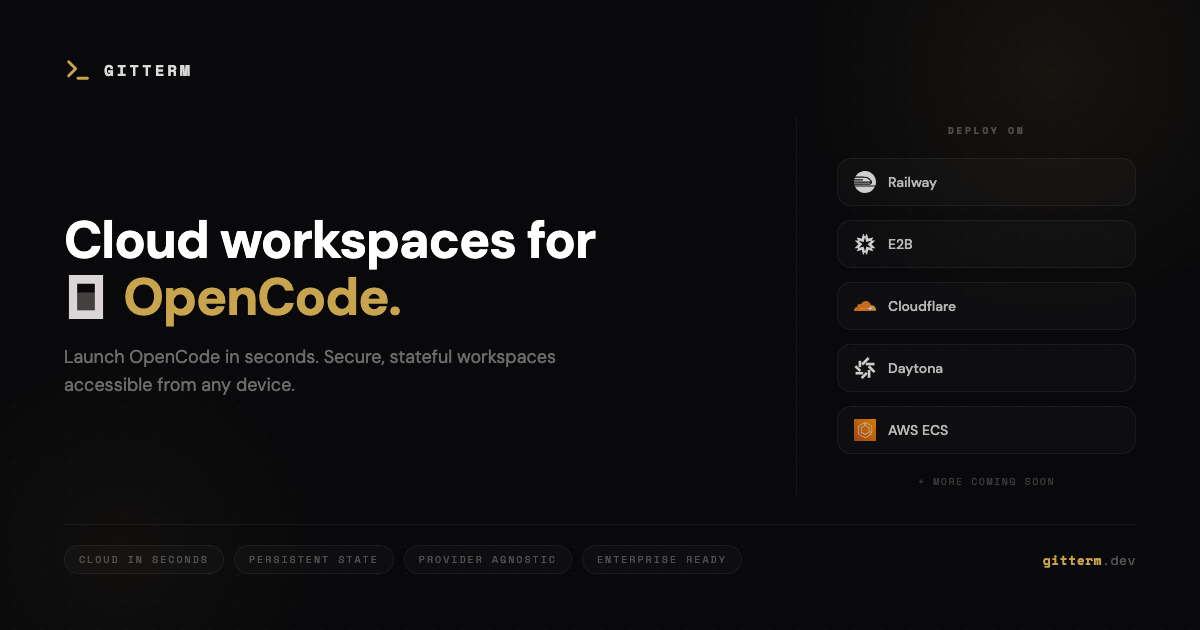
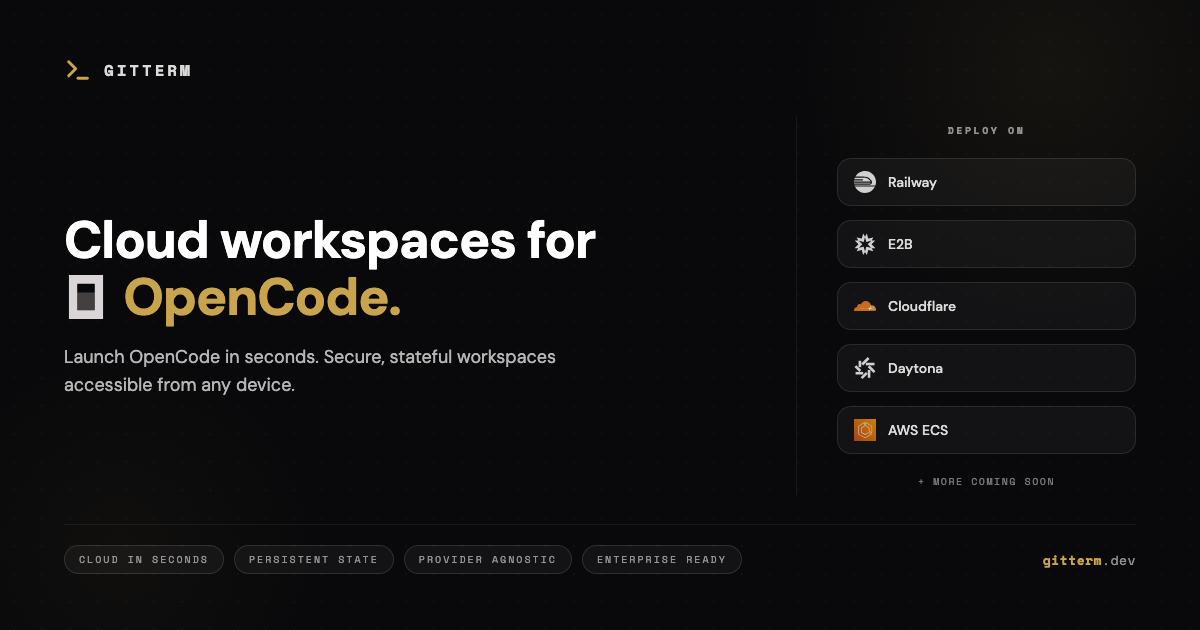
chore: Update og-card

diff --git a/apps/web/public/og-card.html b/apps/web/public/og-card.html
@@ -137,7 +137,7 @@
       .sub {
         font-size: 18px;
         line-height: 1.55;
-        color: rgba(255, 255, 255, 0.4);
+        color: rgba(255, 255, 255, 0.7);
         max-width: 520px;
       }
 
@@ -159,7 +159,7 @@
         font-weight: 700;
         letter-spacing: 0.25em;
         text-transform: uppercase;
-        color: rgba(255, 255, 255, 0.25);
+        color: rgba(255, 255, 255, 0.55);
       }
 
       .providers-list {
@@ -174,9 +174,9 @@
         align-items: center;
         gap: 12px;
         padding: 12px 16px;
-        border: 1px solid rgba(255, 255, 255, 0.06);
+        border: 1px solid rgba(255, 255, 255, 0.1);
         border-radius: 14px;
-        background: rgba(255, 255, 255, 0.02);
+        background: rgba(255, 255, 255, 0.04);
       }
 
       .provider-row img {
@@ -188,7 +188,7 @@
       .provider-row span {
         font-size: 14px;
         font-weight: 500;
-        color: rgba(255, 255, 255, 0.7);
+        color: rgba(255, 255, 255, 0.85);
       }
 
       .providers-more {
@@ -196,7 +196,7 @@
         font-size: 10px;
         letter-spacing: 0.15em;
         text-transform: uppercase;
-        color: rgba(255, 255, 255, 0.2);
+        color: rgba(255, 255, 255, 0.45);
       }
 
       /* ─── Bottom bar (full width) ─── */
@@ -221,9 +221,9 @@
         font-weight: 400;
         letter-spacing: 0.2em;
         text-transform: uppercase;
-        color: rgba(255, 255, 255, 0.28);
-        border: 1px solid rgba(255, 255, 255, 0.06);
-        background: rgba(255, 255, 255, 0.02);
+        color: rgba(255, 255, 255, 0.55);
+        border: 1px solid rgba(255, 255, 255, 0.12);
+        background: rgba(255, 255, 255, 0.04);
         padding: 6px 14px;
         border-radius: 999px;
       }
@@ -232,7 +232,7 @@
         font-family: "Space Mono", monospace;
         font-size: 13px;
         letter-spacing: 0.04em;
-        color: rgba(255, 255, 255, 0.3);
+        color: rgba(255, 255, 255, 0.55);
       }
 
       .url strong {